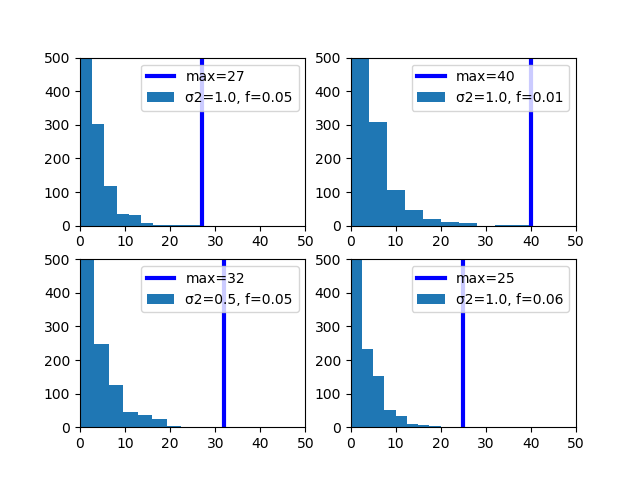
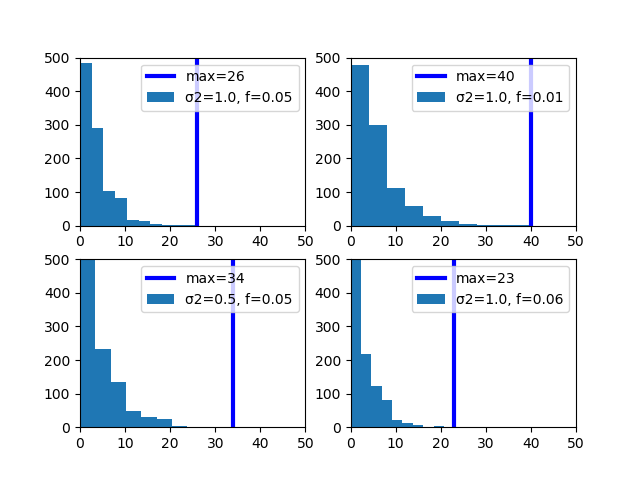
Added code to draw trace.

diff --git a/Code/main.py b/Code/main.py
@@ -17,6 +17,8 @@ TOTALELEMENTS = int(NELEMENTS * (1+2*BOUNDARY) )
 
 MAXSTEPS = 100
 
+np.random.seed(42)
+
 def createCDF( sigma1, value ):
     rv = norm( 0.0, sigma1 )
     x = np.linspace( -1 - BOUNDARY, 1 + BOUNDARY, TOTALELEMENTS)
@@ -40,7 +42,7 @@ def drawFromPDF( x, pdf ):
         sum = sum + pdf[i]
         if ( i >= len(pdf ) or sum >= u ):
             ind = i
-            print('u', u, 'ind', ind, 'x[ind]', x[ind] )
+            #print('u', u, 'ind', ind, 'x[ind]', x[ind] )
             break
     return x[ind]
 
@@ -61,39 +63,99 @@ def experiment( x, y ):
 sigmas = [ 1.0, 1.0, 0.5, 1.0]
 values = [ 0.05, 0.01, 0.05, 0.06 ]
 
-def main( argv = None ):
-    if argv is None:
-        argv = sys.argv
+def drawPDF( sigmas, values ):
     fig = plt.figure()
     for i in range(4):
         x, y = createCDF(sigmas[i], values[i])
         ax = fig.add_subplot(2,2,i+1)
+        #ax.set_title('Model M')
         ax.set_xlim((-1 - BOUNDARY, 1 + BOUNDARY))
         ax.set_ylim((0, 0.1))
-        ax.plot(x,y,label='σ2={0}, f={1}'.format(sigmas[i], values[i]))
+        ax.plot(x,y,label='σ2={0}, e_c={1}'.format(sigmas[i], values[i]), linewidth=3,)
         ax.legend()
     print(sum(y))
-    fig.savefig('pdf2.png')
+    fig.savefig('pdf2.eps')
     plt.show()
 
+def drawHist( sigmas, values, NEXPERIMENTS=1000 ):
     fig = plt.figure()
     for i in range(4):
         ax=fig.add_subplot(2,2,i+1)
         x, y = createCDF(sigmas[i], values[i])
 
         count = []
-        for e in range(1000):
+        for e in range(NEXPERIMENTS):
             t = experiment(x, y)
             count = count + [t]
-        ax.hist(count, label='σ2={0}, f={1}'.format(sigmas[i], values[i]))
+        counts, bins, patches = ax.hist(count, 50, label='σ2={0}, e_c={1:5.2f}'.format(sigmas[i], values[i]) )
+
+        print('sum', np.sum(counts), 'counts', counts, 'sum', np.sum(bins), 'bins', bins)
+        sum = 0
+        for j in range(len(counts)):
+            sum = sum + counts[j]
+            if sum > 0.95 * NEXPERIMENTS:
+                p95 = j
+                break
         m = max(count)
-        ax.plot([m,m], [0,1000],'b-', linewidth=3, label='max={0}'.format(m))
-        ax.set_xlim((0,50))
+        ax.plot([m,m], [0,1000],'b-', linewidth=3, label='max={0:5.2f}'.format(m))
+        ax.plot([bins[p95],bins[p95]],[0,1000], 'r--', linewidth=3, label='95%={0:5.2f}'.format(bins[p95]))
+        ax.set_xlim((0,100))
         ax.set_ylim((0,500))
         ax.legend()
 
-    fig.savefig( 'hist2.png')
+    fig.savefig( 'hist2.eps')
     plt.show()
 
+def drawExperiment( sigma, value, steps ):
+    fig = plt.figure()
+    ax=fig.add_subplot(1,1,1)
+    x, y = createCDF(sigma, value)
+
+    logs = [ [], [], []  ]
+
+    while len(logs[0]) <= 0 or len(logs[1]) <= 0 or len(logs[2]) <= 0:
+        print( len(logs[0]), len(logs[1]), len(logs[2]) )
+        log = [0]
+        disp = 0
+        for i in range( steps ):
+            z = drawFromPDF(x, y)
+            if (z <= -1) or (z >= 1):
+                if ( len(log) > steps//2):
+                    if ( disp < 0 ):
+                        z = +1
+                    else:
+                        z = -1
+                    log.append( z )
+                    logs[1] = log
+                break
+            disp = disp + z
+            if (disp <= -1) or (disp >= 1):
+                if ( len(log) > steps//2):
+                    log.append(disp)
+                    logs[0] = log
+                break
+            log.append( disp )
+        if len(log) >= steps:
+            logs[2] = log
+
+    ax.plot( logs[0], 'g--', linewidth=3, label='Drift Error' )
+    ax.plot(logs[1], 'r-*', linewidth=3, label='Critical Error')
+    ax.plot(logs[2], 'b-', linewidth=3, label='No Error')
+    ax.set_title( 'Trace of Experiments with σ2 = {0} and e_c = {1}'.format(sigma, value) )
+    ax.legend()
+
+    fig.savefig( 'plot2.eps')
+    plt.show()
+
+def main( argv = None ):
+    if argv is None:
+        argv = sys.argv
+    #drawPDF( sigmas, values )
+
+    sigmas = [0.01, 0.01, 0.5, 1.0]
+    values = [0.0, 0.1, 0.02, 0.06]
+
+    drawHist( sigmas, values )
+    #drawExperiment( 2.0, 0.03, 25 )
 if __name__ == '__main__':
     main()
